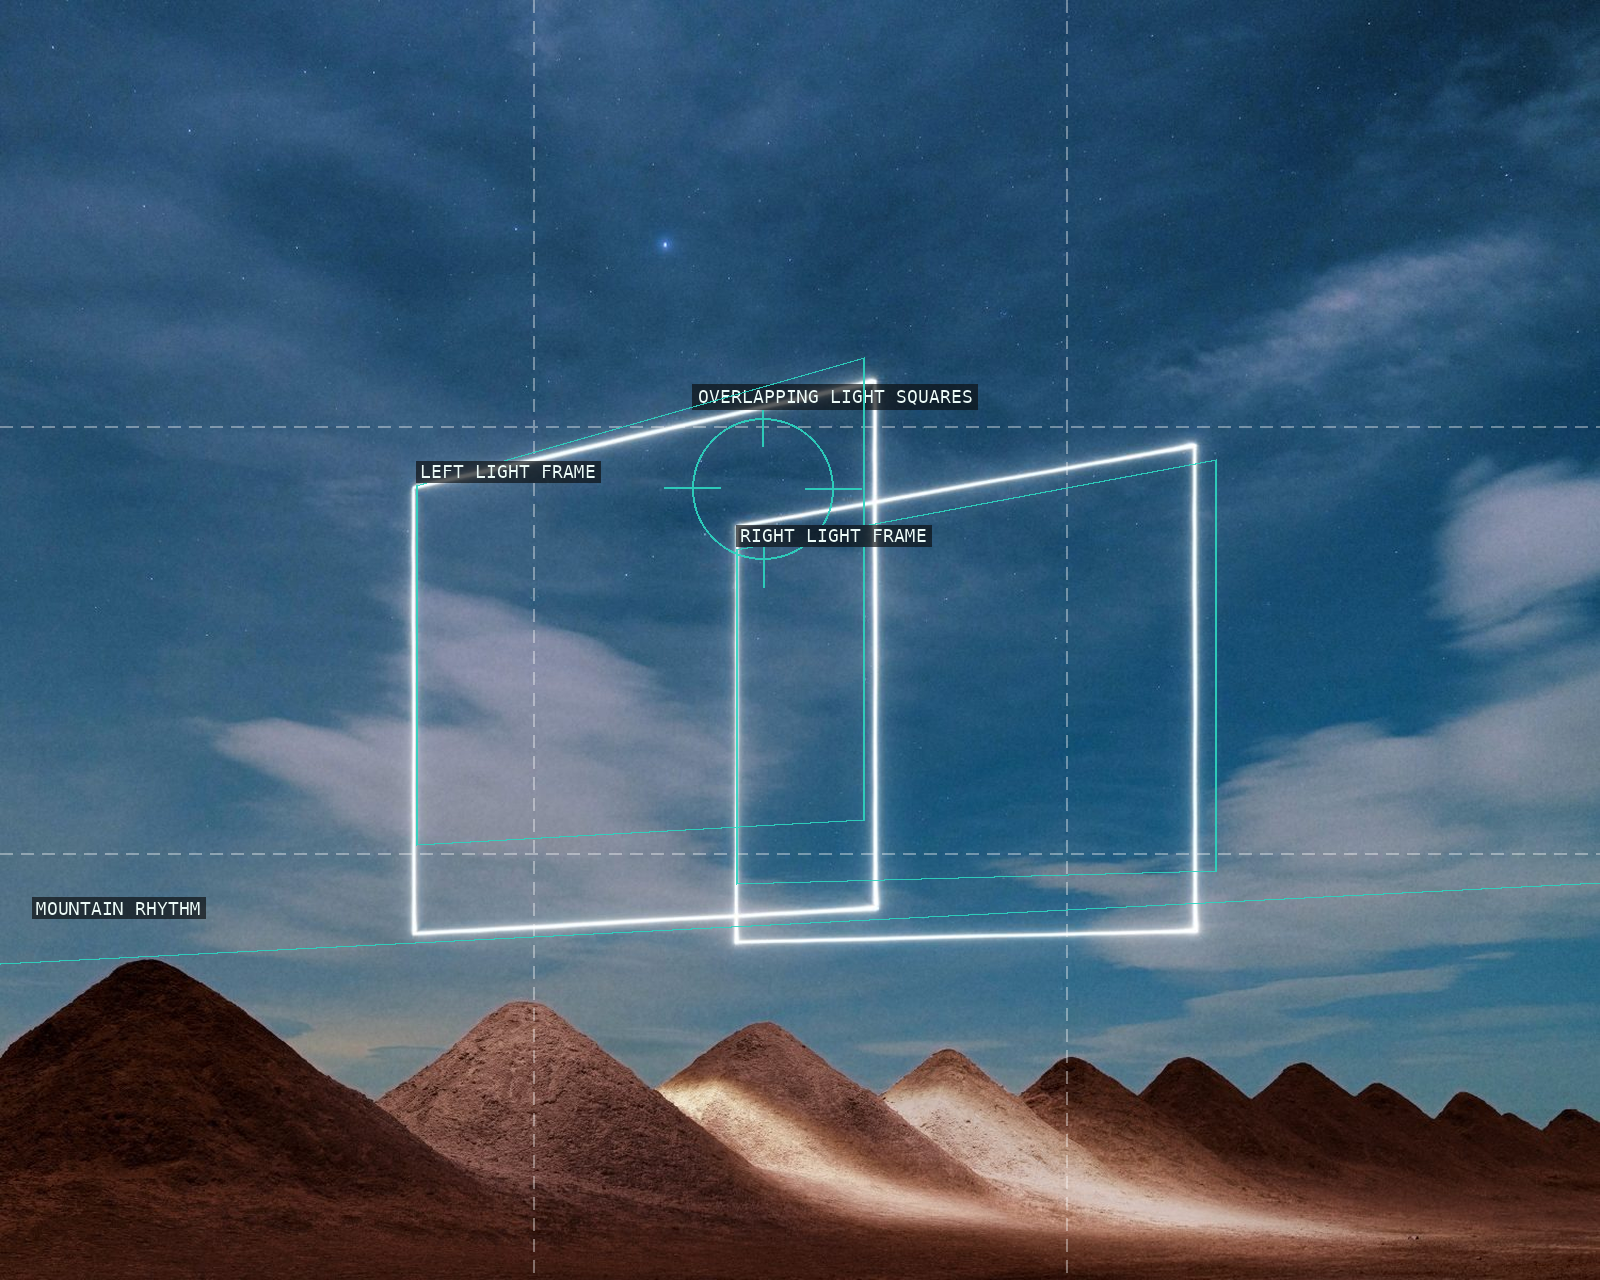
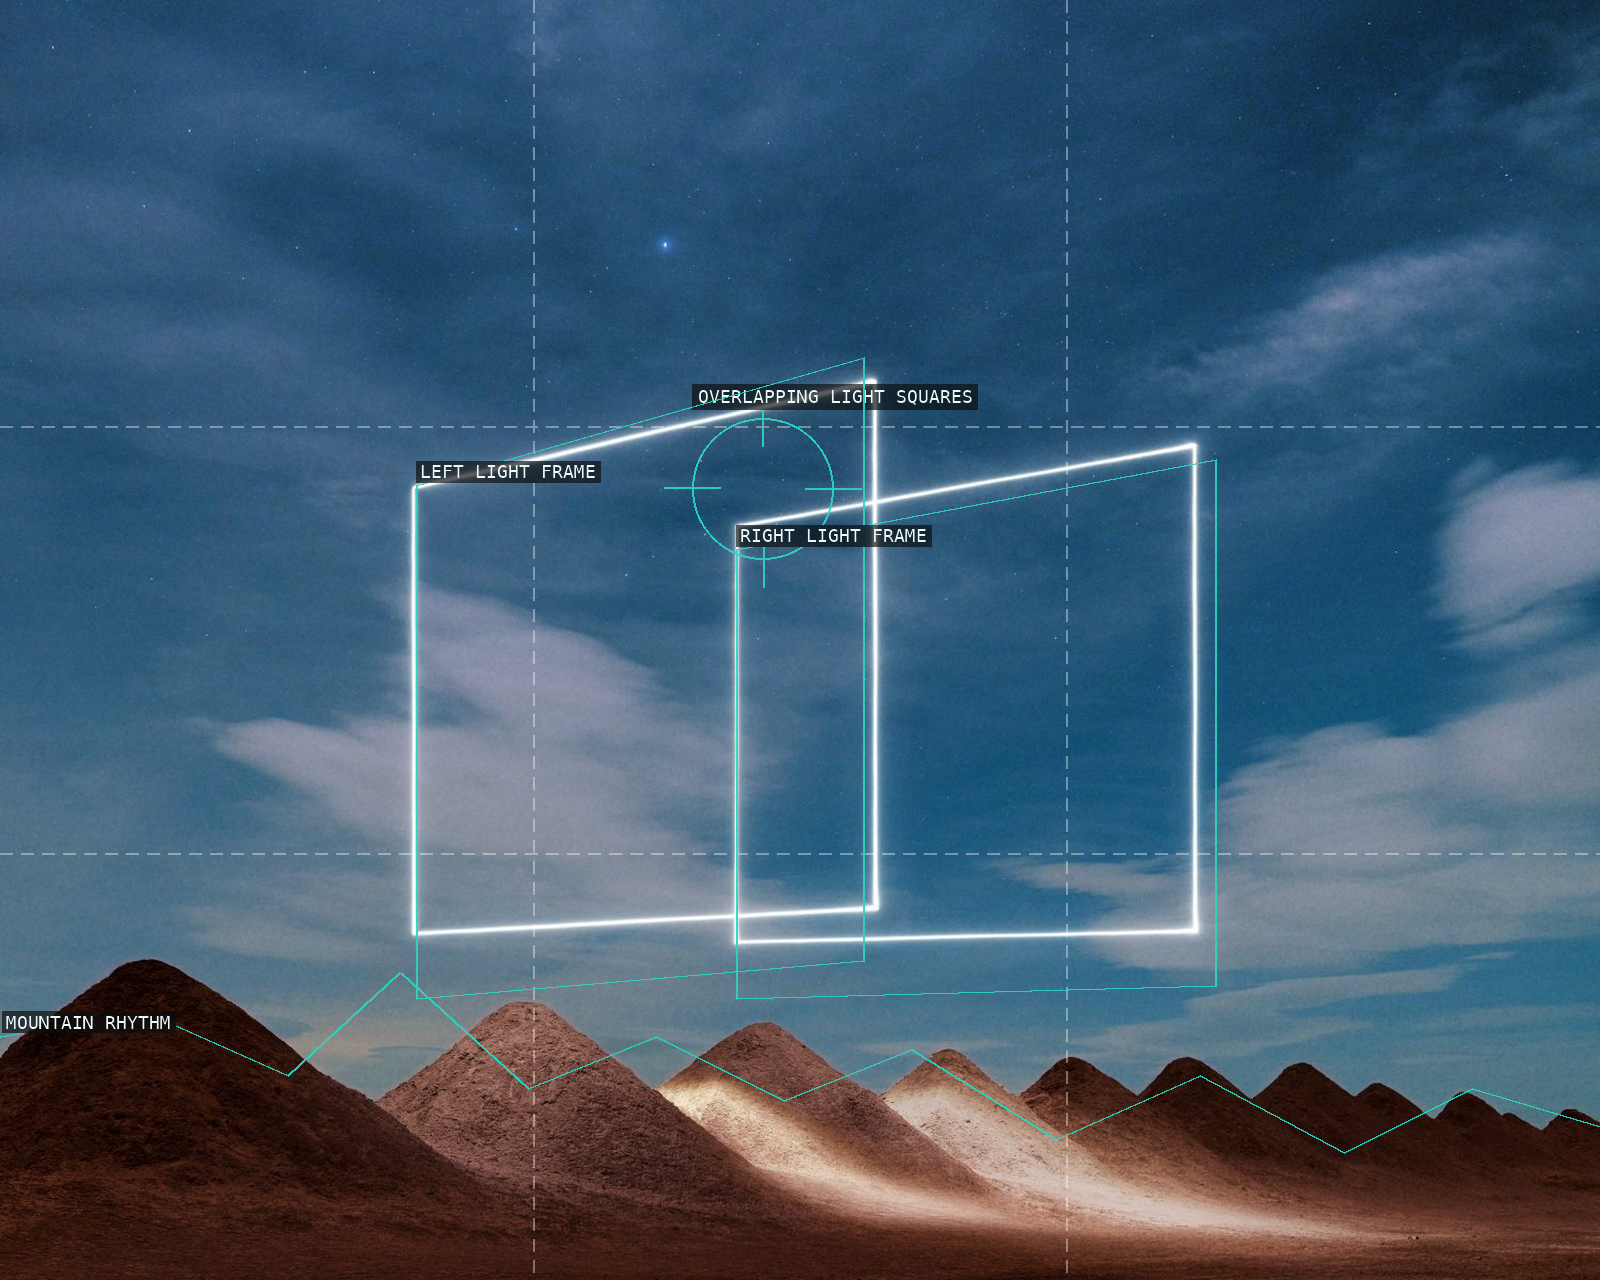
resolve critique: reuben-wu

Changed region(s): [[0.0, 0.7812, 0.125, 0.8125], [0.0, 0.6875, 0.125, 0.7188]]

diff --git a/content/reuben-wu/critique.md b/content/reuben-wu/critique.md
@@ -1,4 +1,4 @@
-verdict: revise
+verdict: resolved
 
 ## Critique round — 2026-08-03
 
@@ -17,3 +17,13 @@ verdict: revise
 - `10-siren-dscf0762`: `LEFT LIGHT EDGE` partly follows an interior luminous strand rather than the outermost left boundary; it is still visually plausible.
 
 All twelve proofs were inspected.  The deterministic scores are at least 92/100 (eleven 100/100); the required findings above are semantic visual-truthfulness failures that the geometric scorer does not test.  Chapter measurements agree with the analyzer within the stated tolerance, no individual camera settings are asserted, and every cited official-portfolio image and project URL resolved successfully.  The documented per-image fair-use rationales and credits are complete.
+
+## Resolution — 2026-08-03
+
+Re-verified prior critique round `2026-08-03` in full.  The required fixes now hold:
+
+1. `06-lux-noctis-dsc8162`: `FIGURE ON BOULDER` is centred at `(0.614, 0.47)`, on the visible lit figure/red light rather than the boulder face.  The revised overlay scores 99/100; the one-point analyzer variance is expected because its saliency region encompasses the boulder, while the labelled feature is visually distinct.
+2. `08-aeroglyphs-10`: both frame polylines now follow their luminous lower edges (`y=0.78→0.75` left and `y=0.78→0.77` right).  The overlay scores 100/100.
+3. `08-aeroglyphs-10`: the false straight `MOUNTAIN RHYTHM` horizon is replaced by a ridge-following polyline along the serrated mountain silhouette.
+
+Both regenerated proofs received a clean visual pass.  No chapter prose change was needed: its descriptions of the light frames and mountain rhythm remain accurate.  `scripts/check.sh` passed before this resolution was recorded.
